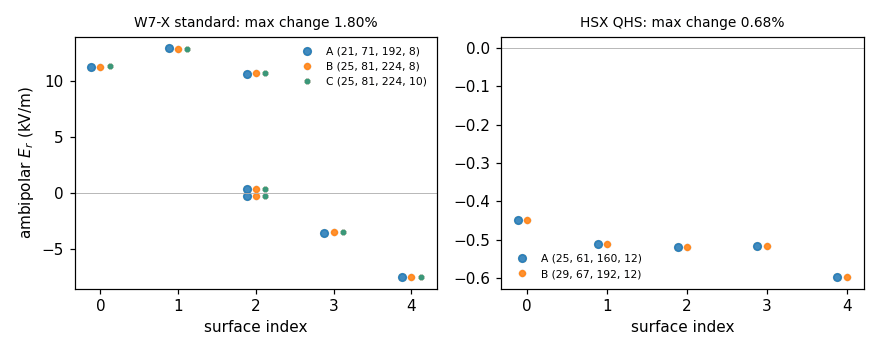
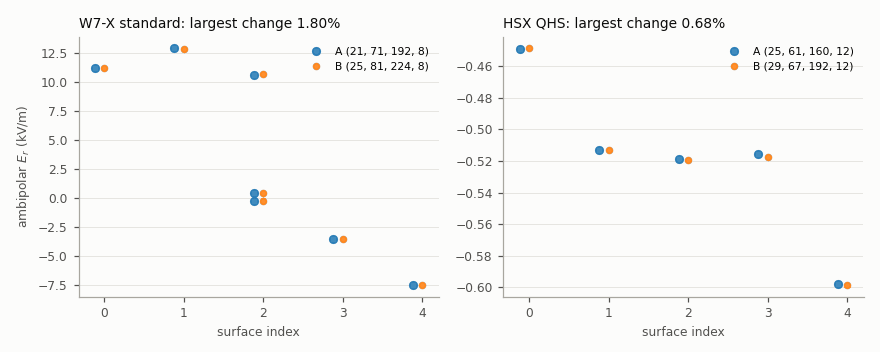
README figure from the showcase generator, with provenance; README back under its word budget

diff --git a/tools/publication_figures/generate_readme_showcase.py b/tools/publication_figures/generate_readme_showcase.py
@@ -1,4 +1,4 @@
-"""The two README showcase figures, drawn from recorded measurements.
+"""The README showcase figures, drawn from recorded measurements.
 
 Every number below is copied from the experiment record named beside it; the
 script runs no solve, so it regenerates the figures in seconds on any machine::
@@ -17,11 +17,18 @@ script runs no solve, so it regenerates the figures in seconds on any machine::
 ``factor_reuse.png``
     Wall time of one factorization serving many solves, on the structured and
     sparse direct routes (2026-09-20 one-factorization-many-solves study).
+
+``ambipolar_rung_gates.png``
+    Ambipolar roots of W7-X and HSX at successive grid rungs, read from
+    ``validation/w7x_ambipolar_rung_gate_v1.json`` and
+    ``validation/hsx_ambipolar_rung_gate_v1.json``.
 """
 
 from __future__ import annotations
 
 import argparse
+import json
+import math
 from pathlib import Path
 
 import matplotlib
@@ -169,11 +176,32 @@ def factor_reuse(out_dir: Path) -> Path:
     return _save(fig, "factor_reuse.png", out_dir)
 
 
+def ambipolar_rung_gates(out_dir: Path) -> Path:
+    root = Path(__file__).resolve().parents[2] / "validation"
+    fig, axes = plt.subplots(1, 2, figsize=(8.0, 3.2))
+    fig.patch.set_facecolor(SURFACE)
+    for ax, (name, title) in zip(axes, (("w7x", "W7-X standard"), ("hsx", "HSX QHS"))):
+        _style(ax)
+        gate = json.loads((root / f"{name}_ambipolar_rung_gate_v1.json").read_text())
+        rungs = sorted(gate["rungs"].items(), key=lambda kv: math.prod(kv[1]["resolution"].values()))
+        for k, (label, rung) in enumerate(rungs):
+            roots = rung["roots"].values()
+            ax.plot([r["surface"] + 0.12 * (k - 1) for r in roots], [r["Er"] for r in roots], "o",
+                    ms=5 - k, alpha=0.85, label=f"{label} {tuple(rung['resolution'].values())}")
+        change = 100 * gate["gate"]["max_relative_difference"]
+        ax.set_title(f"{title}: largest change {change:.2f}%", fontsize=9, color=INK, loc="left")
+        ax.set_xlabel("surface index", fontsize=8, color=INK_2)
+        ax.legend(fontsize=7, frameon=False)
+    axes[0].set_ylabel("ambipolar $E_r$ (kV/m)", fontsize=8, color=INK_2)
+    fig.tight_layout()
+    return _save(fig, "ambipolar_rung_gates.png", out_dir)
+
+
 def main(argv: list[str] | None = None) -> None:
     parser = argparse.ArgumentParser(description=__doc__.splitlines()[0])
     parser.add_argument("--out-dir", type=Path, default=OUT_DIR)
     args = parser.parse_args(argv)
-    for path in (reference_limits(args.out_dir), factor_reuse(args.out_dir)):
+    for path in (reference_limits(args.out_dir), factor_reuse(args.out_dir), ambipolar_rung_gates(args.out_dir)):
         print(f"{path.name}: {path.stat().st_size / 1024:.0f} KiB")
 
 

diff --git a/README.md b/README.md
@@ -140,15 +140,9 @@ Full linearized Fokker–Planck conserves momentum; pitch-angle scattering is fa
 
 W7-X program 20160309.010: electron roots in the core, ion roots at the edge; `dkx roots` prints
 every classified root.
-The comparison with the published XICS profile is qualitative. Convergence is checked by refining the phase-space grid
-until every root and selected flux moves by less than 2%:
+The XICS comparison is qualitative. Converged roots, every flux within 2% between grid rungs:
 
 ![Ambipolar roots of W7-X and HSX at successive grid rungs](docs/_static/figures/readme/ambipolar_rung_gates.png)
-
-W7-X standard, five surfaces, seven roots: 1.80% largest change for angles and pitch, 0.32% for speed,
-under 5 GiB per solve. HSX QHS with representative profiles: one ion root per surface, 0.68%.
-`validation/w7x_ambipolar_rung_gate_v1.json` and `validation/hsx_ambipolar_rung_gate_v1.json` hold the roots
-and fluxes; `tools/paper_benchmarks/audit_ambipolar_rung_gate.py` recomputes the gate.
 
 ### Phi1 and impurities
 
@@ -213,8 +207,7 @@ cold-ion, hot-electron plasma. With that cutoff set to zero, the two codes agree
 The HSX-like gap deck (633,604 unknowns, `Nx = 16`) is a case **SFINCS does not solve** on a 36 GiB
 host: two routes run out of memory and its GMRES stagnates at 0.9955. DKX's default route converges
 it to a true relative residual of **9.0e-9** in 611 iterations (1,658 s, 26.8 GiB peak on a 62 GiB
-host; sealed in `validation/hsx_gap_deck_v1.json`). Out of core, MUMPS reaches 4.8e-11 in 4,774 s. DKX assembles its operator exactly from 4,800
-products and solves the 66,004-unknown reduction to 1.3e-14.
+host; sealed in `validation/hsx_gap_deck_v1.json`).
 
 ## Where DKX converges, and why
 
